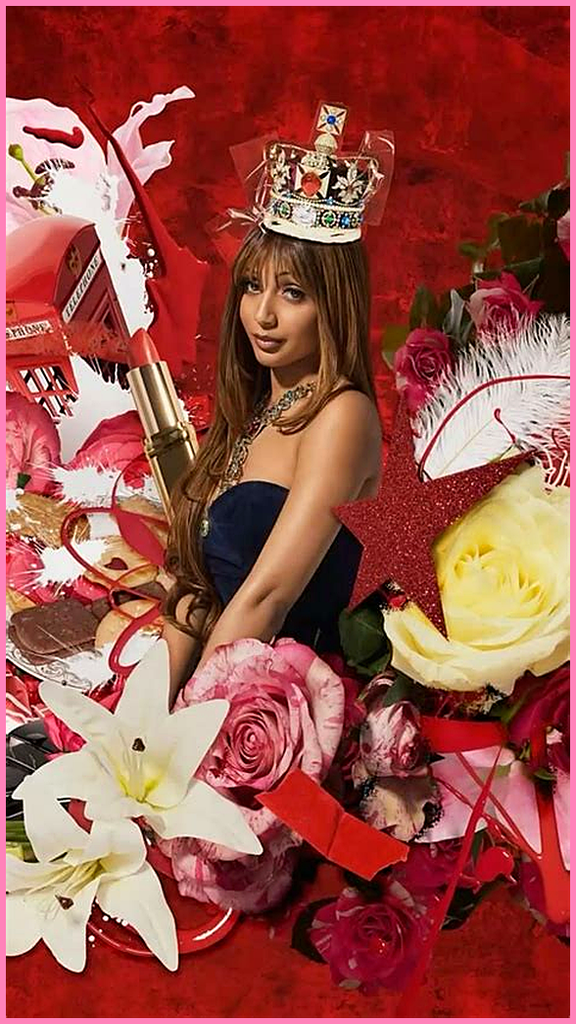
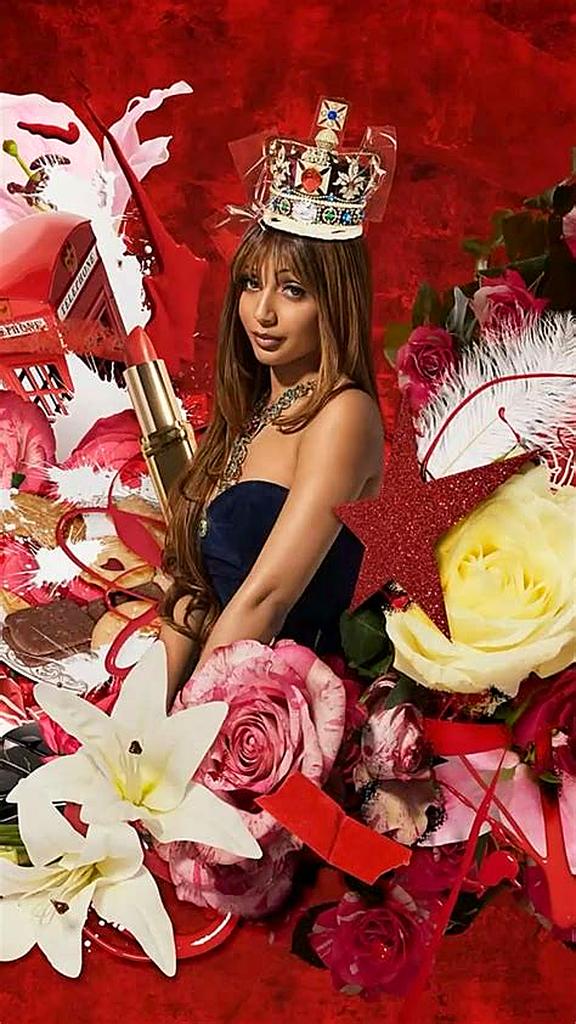
v1.1.0: Inventory+ Fast Swap loot-all RShift Inv tab, Lumen 2.1

diff --git a/src/main/engine.ts b/src/main/engine.ts
@@ -446,8 +446,19 @@ function installLumen(modsDir: string, on: ProgressFn): void {
     on("Lumen jar не найден в resources", 0.92);
     return;
   }
-  fs.copyFileSync(src, path.join(modsDir, path.basename(src)));
-  on(`Lumen: ${path.basename(src)}`, 0.93);
+  // убрать старые lumen-*.jar, чтобы не грузить два мода
+  for (const f of fs.readdirSync(modsDir)) {
+    if (/^lumen-.*\.jar$/i.test(f) || f.toLowerCase() === "lumen.jar") {
+      try {
+        fs.unlinkSync(path.join(modsDir, f));
+      } catch {
+        /* ignore */
+      }
+    }
+  }
+  const destName = path.basename(src);
+  fs.copyFileSync(src, path.join(modsDir, destName));
+  on(`Lumen: ${destName}`, 0.93);
 }
 
 /** Essential — хост миров / друзья / мультиплеер для Lumen 26.2 Fabric. */

diff --git a/src/main/paths.ts b/src/main/paths.ts
@@ -68,9 +68,16 @@ export function skinsRoot(): string {
 }
 
 export function lumenJarPath(): string {
-  const packed = path.join(process.resourcesPath, "lumen-2.0.0.jar");
-  if (fs.existsSync(packed)) return packed;
-  return path.join(app.getAppPath(), "resources", "lumen-2.0.0.jar");
+  const names = ["lumen-2.1.0.jar", "lumen-2.0.0.jar", "lumen.jar"];
+  for (const name of names) {
+    const packed = path.join(process.resourcesPath, name);
+    if (fs.existsSync(packed)) return packed;
+  }
+  for (const name of names) {
+    const dev = path.join(app.getAppPath(), "resources", name);
+    if (fs.existsSync(dev)) return dev;
+  }
+  return path.join(app.getAppPath(), "resources", "lumen-2.1.0.jar");
 }
 
 /** Встроенный плащ PinkPantheress (skinview 64×32 / HD 512). */

diff --git a/scripts/make_cape_atlas.py b/scripts/make_cape_atlas.py
@@ -1,0 +1,121 @@
+"""HD Minecraft cape atlas with PinkPantheress photo — correct UV, no black bars."""
+from __future__ import annotations
+
+from pathlib import Path
+
+from PIL import Image, ImageEnhance, ImageFilter, ImageOps
+
+ROOT = Path(__file__).resolve().parents[1]
+SRC = ROOT / "resources" / "capes" / "pinkpantheress_src.jpg"
+OUT = ROOT / "resources" / "capes"
+MOD = (
+    Path(__file__).resolve().parents[2]
+    / "minecraft-26.2-launcher"
+    / "mod"
+    / "src"
+    / "main"
+    / "resources"
+    / "assets"
+    / "lumen"
+    / "textures"
+    / "entity"
+)
+MCMETA = """{
+  "texture": {
+    "blur": true,
+    "clamp": true
+  }
+}
+"""
+
+
+def face_crop(img: Image.Image, tw: int, th: int) -> Image.Image:
+    """Center-crop portrait to cape panel aspect (10:16)."""
+    img = img.convert("RGBA")
+    w, h = img.size
+    target_aspect = tw / th
+    src_aspect = w / h
+    if src_aspect > target_aspect:
+        nw = int(h * target_aspect)
+        left = (w - nw) // 2
+        box = (left, 0, left + nw, h)
+    else:
+        nh = int(w / target_aspect)
+        # slightly above center (face)
+        top = max(0, (h - nh) // 2 - nh // 10)
+        box = (0, top, w, top + nh)
+    cropped = img.crop(box)
+    return cropped.resize((tw, th), Image.Resampling.LANCZOS)
+
+
+def main() -> None:
+    if not SRC.is_file():
+        raise SystemExit(f"missing {SRC}")
+    OUT.mkdir(parents=True, exist_ok=True)
+    MOD.mkdir(parents=True, exist_ok=True)
+
+    photo = Image.open(SRC).convert("RGBA")
+    photo = ImageEnhance.Color(photo).enhance(1.12)
+    photo = ImageEnhance.Contrast(photo).enhance(1.08)
+    photo = ImageEnhance.Sharpness(photo).enhance(1.25)
+    photo = photo.filter(ImageFilter.UnsharpMask(radius=1.0, percent=90, threshold=2))
+
+    # 16× vanilla 64 atlas → 1024×1024, cape face 160×256 of real photo
+    s = 16
+    W, H = 64 * s, 64 * s
+    atlas = Image.new("RGBA", (W, H), (0, 0, 0, 0))
+
+    # PlayerCapeModel texOffs(0,0) box 10×16×1 on 64×64:
+    # front (1,1)-(11,17), back (12,1)-(22,17), sides, top
+    d, ww, hh = 1 * s, 10 * s, 16 * s  # 16, 160, 256
+
+    front = face_crop(photo, ww, hh)
+    # soft pink edge so sides never sample pure black
+    edge = Image.new("RGBA", (ww, hh), (255, 140, 190, 255))
+    front = Image.alpha_composite(edge, front)
+    back = ImageOps.mirror(front)
+
+    pink = (255, 120, 175, 255)
+    atlas.paste(front, (d, d))  # front
+    atlas.paste(back, (d + ww + d, d))  # back
+    atlas.paste(Image.new("RGBA", (ww, d), pink), (d, 0))  # top
+    atlas.paste(Image.new("RGBA", (d, hh), pink), (0, d))  # right strip
+    atlas.paste(Image.new("RGBA", (d, hh), pink), (d + ww, d))  # left strip
+    # bottom fringe under front/back
+    atlas.paste(Image.new("RGBA", (ww, d), (255, 90, 160, 255)), (d, d + hh))
+    atlas.paste(Image.new("RGBA", (ww, d), (255, 90, 160, 255)), (d + ww + d, d + hh))
+
+    cape_path = MOD / "pinkpantheress_cape.png"
+    atlas.save(cape_path, "PNG", optimize=True)
+    (MOD / "pinkpantheress_cape.png.mcmeta").write_text(MCMETA, encoding="utf-8")
+    atlas.save(OUT / "pinkpantheress_hd.png", "PNG", optimize=True)
+    (OUT / "pinkpantheress_cape.png.mcmeta").write_text(MCMETA, encoding="utf-8")
+
+    # also keep a full photo copy for reference (not used as cape UV)
+    fh = 1024
+    fw = max(320, int(photo.width * fh / photo.height))
+    full = photo.resize((fw, fh), Image.Resampling.LANCZOS)
+    full.save(OUT / "pinkpantheress_full.png", "PNG", optimize=True)
+    # remove old broken full-photo-as-cape if present
+    old_photo = MOD / "pinkpantheress_photo.png"
+    if old_photo.is_file():
+        old_photo.unlink()
+    old_meta = MOD / "pinkpantheress_photo.png.mcmeta"
+    if old_meta.is_file():
+        old_meta.unlink()
+
+    # skinview 16× classic 64×32
+    sv = 16
+    classic = Image.new("RGBA", (64 * sv, 32 * sv), (0, 0, 0, 0))
+    f2 = front.resize((10 * sv, 16 * sv), Image.Resampling.LANCZOS)
+    b2 = ImageOps.mirror(f2)
+    classic.paste(f2, (1 * sv, 1 * sv))
+    classic.paste(b2, (12 * sv, 1 * sv))
+    classic.save(OUT / "pinkpantheress_skinview.png", "PNG", optimize=True)
+
+    print("atlas", cape_path, cape_path.stat().st_size, atlas.size)
+    print("front sample", front.getpixel((ww // 2, hh // 3)))
+
+
+if __name__ == "__main__":
+    main()

diff --git a/scripts/fix_cape_textures.py b/scripts/fix_cape_textures.py
@@ -1,0 +1,89 @@
+"""Fix cape textures: atlas for PlayerSkin/Essential, full photo for in-world only."""
+from __future__ import annotations
+
+from pathlib import Path
+
+from PIL import Image, ImageEnhance
+
+ROOT = Path(__file__).resolve().parents[1]
+SRC = ROOT / "resources" / "capes" / "pinkpantheress_src.jpg"
+OUT = ROOT / "resources" / "capes"
+MOD = (
+    Path(__file__).resolve().parents[2]
+    / "minecraft-26.2-launcher"
+    / "mod"
+    / "src"
+    / "main"
+    / "resources"
+    / "assets"
+    / "lumen"
+    / "textures"
+    / "entity"
+)
+MCMETA = """{
+  "texture": {
+    "blur": true,
+    "clamp": true
+  }
+}
+"""
+
+
+def main() -> None:
+    if not SRC.is_file():
+        raise SystemExit(f"missing {SRC}")
+    OUT.mkdir(parents=True, exist_ok=True)
+    MOD.mkdir(parents=True, exist_ok=True)
+
+    photo = Image.open(SRC).convert("RGBA")
+    photo = ImageEnhance.Color(photo).enhance(1.1)
+    photo = ImageEnhance.Contrast(photo).enhance(1.06)
+    photo = ImageEnhance.Sharpness(photo).enhance(1.2)
+
+    h = 1024
+    w = max(320, int(photo.width * h / photo.height))
+    full = photo.resize((w, h), Image.Resampling.LANCZOS)
+
+    full.save(OUT / "pinkpantheress_full.png", "PNG", optimize=True)
+    full.save(MOD / "pinkpantheress_photo.png", "PNG", optimize=True)
+    (MOD / "pinkpantheress_photo.png.mcmeta").write_text(MCMETA, encoding="utf-8")
+
+    # Proper MC cape atlas 512x512 (8x of 64) — UV for 10x16x1 at texOffs(0,0)
+    s = 8
+    atlas = Image.new("RGBA", (64 * s, 64 * s), (0, 0, 0, 0))
+    pw, ph = full.size
+    side_w = min(pw, int(ph * 10 / 16))
+    side_h = int(side_w * 16 / 10)
+    left = (pw - side_w) // 2
+    top = max(0, (ph - side_h) // 2 - side_h // 8)
+    face = full.crop((left, top, left + side_w, top + side_h))
+    front = face.resize((10 * s, 16 * s), Image.Resampling.LANCZOS)
+    back = front.transpose(Image.Transpose.FLIP_LEFT_RIGHT)
+    d, ww, hh = 1 * s, 10 * s, 16 * s
+    atlas.paste(front, (d, d))
+    atlas.paste(back, (d + ww + d, d))
+    atlas.paste(Image.new("RGBA", (ww, d), (255, 130, 180, 255)), (d, 0))
+    atlas.paste(Image.new("RGBA", (d, hh), (255, 110, 170, 255)), (0, d))
+    atlas.paste(Image.new("RGBA", (d, hh), (255, 110, 170, 255)), (d + ww, d))
+
+    atlas.save(MOD / "pinkpantheress_cape.png", "PNG", optimize=True)
+    (MOD / "pinkpantheress_cape.png.mcmeta").write_text(MCMETA, encoding="utf-8")
+    atlas.save(OUT / "pinkpantheress_hd.png", "PNG", optimize=True)
+
+    # skinview classic 16x
+    sv = 16
+    classic = Image.new("RGBA", (64 * sv, 32 * sv), (0, 0, 0, 0))
+    f2 = face.resize((10 * sv, 16 * sv), Image.Resampling.LANCZOS)
+    b2 = f2.transpose(Image.Transpose.FLIP_LEFT_RIGHT)
+    classic.paste(f2, (1 * sv, 1 * sv))
+    classic.paste(b2, (12 * sv, 1 * sv))
+    classic.save(OUT / "pinkpantheress_skinview.png", "PNG", optimize=True)
+
+    print("full", full.size)
+    print("atlas", atlas.size)
+    print("classic", classic.size)
+    print("mod", [p.name for p in MOD.iterdir()])
+
+
+if __name__ == "__main__":
+    main()

diff --git a/README.md b/README.md
@@ -1,35 +1,29 @@
-# Lumen Launcher
+# Lumen Launcher
 
-Minecraft Java launcher (Electron + React) for **26.2**: Fabric, Lumen helpers, **Essential** multiplayer, built-in **PinkPantheress** HD cape.
+Minecraft Java launcher for **26.2**: Fabric, Lumen helpers, **Essential**, **Inventory+ / Fast Swap**, PinkPantheress cape.
 
-## Download (friends)
+## Download
 
-Grab the latest installer from **[Releases](https://github.com/stillemptyNOW/lumen-launcher/releases)**:
+**[Releases](https://github.com/stillemptyNOW/lumen-launcher/releases)**
 
-| File | What it is |
-|------|------------|
-| **`LumenLauncher-Setup.exe`** | Windows installer (recommended for friends) |
-| `LumenLauncher.exe` | Portable, no install |
+| File | What |
+|------|------|
+| **LumenLauncher-Setup.exe** / **setup.exe** | Installer |
+| **LumenLauncher.exe** | Portable |
 
-## Features
+## Lumen (Right Shift)
 
-- Microsoft login (device code / Prism public client — no Azure app)
-- Multi-loader: Vanilla, Fabric, Quilt, Forge, NeoForge, OptiFine
-- **Lumen** (Fabric 26.2): Right Shift menu — FullBright, MobESP, particles, XRAY (SP)
-- **Essential** auto-install on Lumen profile — host worlds / friends
-- **PinkPantheress HD cape** in launcher 3D preview **and in-game** (via Lumen)
+| Key | Action |
+|-----|--------|
+| **RShift** | Menu |
+| **G** | Loot All from chest / barrel / shulker |
+| **B** | Deposit All into container |
+| **H** | Deposit matching only |
+| **R** | Fast Swap (offhand) |
+| **X** | Restock hotbar |
+| **C** | Zoom |
 
-## Build from source
-
-```bash
-npm install
-npm run build
-```
-
-Outputs:
-
-- `release/setup.exe`
-- `release/LumenLauncher.exe`
+Tabs: Visual · HUD · World · ESP · **Inv+**
 
 ## Not affiliated
 
